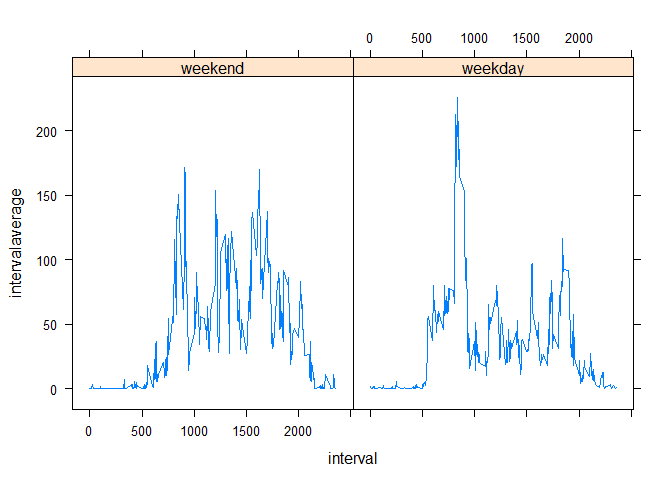
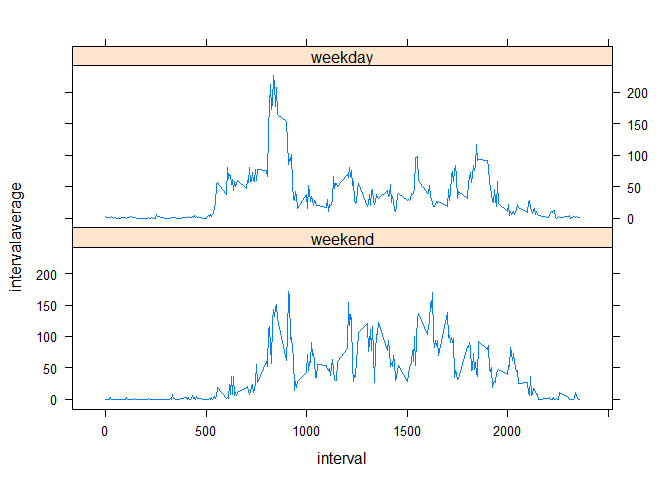
updating with minor edits

diff --git a/PA1_template.html b/PA1_template.html
@@ -124,10 +124,10 @@ $(document).ready(function () {
 
 <div id="loading-and-preprocessing-the-data" class="section level2">
 <h2>Loading and preprocessing the data</h2>
-<pre class="r"><code>#Read in the data
-activitydata&lt;-read.csv(projectfile,colClasses = c(&quot;integer&quot;,&quot;character&quot;,&quot;integer&quot;))
+<p>Read in and clean the data</p>
+<pre class="r"><code>activitydata&lt;-read.csv(projectfile,colClasses = c(&quot;integer&quot;,&quot;character&quot;,&quot;integer&quot;))
 
-#Clean the data
+
 activitydata$date&lt;-as.Date(activitydata$date)
 activitydata&lt;-mutate(activitydata,weekday=wday(date))
 activitydata&lt;-arrange(activitydata,interval)</code></pre>
@@ -138,8 +138,12 @@ activitydata&lt;-arrange(activitydata,interval)</code></pre>
 hist(daysums)</code></pre>
[1 lines of base64/hex data omitted]
 <pre class="r"><code>stepaverage&lt;-mean(daysums,na.rm = T)
+stepmedian&lt;-median(daysums,na.rm = T)
 print(stepaverage)</code></pre>
 <pre><code>## [1] 37.3826</code></pre>
+<pre class="r"><code>print(stepmedian)</code></pre>
+<pre><code>## [1] 37.37847</code></pre>
+<p>Mean of steps taken each day is 37.3825996, and median is 37.3784722.</p>
 </div>
 <div id="what-is-the-average-daily-activity-pattern" class="section level2">
 <h2>What is the average daily activity pattern?</h2>
@@ -155,8 +159,8 @@ print(maxinterval)</code></pre>
 </div>
 <div id="imputing-missing-values" class="section level2">
 <h2>Imputing missing values</h2>
-<pre class="r"><code>#Using the &quot;mice&quot; impute function from the &quot;mice package&quot;
-imputed_Data &lt;- mice(groupedactivitydata, m=1, maxit = 10, method = 'pmm', seed = 500)
+<p>Using the “mice” impute function from the “mice package</p>
+<pre class="r"><code>imputed_Data &lt;- mice(groupedactivitydata, m=1, maxit = 10, method = 'pmm', seed = 500)
 completeData &lt;- complete(imputed_Data)</code></pre>
 <pre class="r"><code>imputeddaysums&lt;-tapply(completeData$steps,completeData$date,mean)
 hist(imputeddaysums)</code></pre>
@@ -164,15 +168,15 @@ hist(imputeddaysums)</code></pre>
 <pre class="r"><code>print(summary(imputeddaysums))</code></pre>
 <pre><code>##    Min. 1st Qu.  Median    Mean 3rd Qu.    Max. 
 ##  0.1424 30.6285 36.7049 36.9001 44.7326 73.5903</code></pre>
-<p>Comparing to the previous histogram mean, we see that imputing the NAs does not make a significant difference.</p>
+<p>Comparing to the previous histogram, median, and mean, we see that imputing the NAs does not make a significant difference.</p>
 </div>
 <div id="are-there-differences-in-activity-patterns-between-weekdays-and-weekends" class="section level2">
 <h2>Are there differences in activity patterns between weekdays and weekends?</h2>
 <pre class="r"><code>completeData&lt;-mutate(completeData,weekdaytype=factor(completeData$weekday,                                                    levels=1:7,labels=c(&quot;weekend&quot;,&quot;weekday&quot;,&quot;weekday&quot;,&quot;weekday&quot;                                               ,&quot;weekday&quot;,&quot;weekday&quot;,&quot;weekend&quot;)))
 completeData&lt;-group_by(completeData,weekdaytype,interval)
 completeData&lt;-mutate(completeData,intervalaverage=mean(steps,na.rm = T))
-xyplot(intervalaverage~interval|weekdaytype,completeData,type=&quot;l&quot;)</code></pre>
[1 lines of base64/hex data omitted]
+xyplot(intervalaverage~interval|weekdaytype,completeData,type=&quot;l&quot;,layout=c(1,2))</code></pre>
[1 lines of base64/hex data omitted]
 <p>As we can see, weekdays have a strong spike in activity around 0830, whereas on weekends the activity is more evenly distributed across the waking hours.</p>
 </div>
 

diff --git a/PA1_template.md b/PA1_template.md
@@ -8,12 +8,13 @@ output:
 
 
 ## Loading and preprocessing the data
+  
+Read in and clean the data
 
 ```r
-#Read in the data
 activitydata<-read.csv(projectfile,colClasses = c("integer","character","integer"))
 
-#Clean the data
+
 activitydata$date<-as.Date(activitydata$date)
 activitydata<-mutate(activitydata,weekday=wday(date))
 activitydata<-arrange(activitydata,interval)
@@ -29,12 +30,22 @@ hist(daysums)
 
 ```r
 stepaverage<-mean(daysums,na.rm = T)
+stepmedian<-median(daysums,na.rm = T)
 print(stepaverage)
 ```
 
 ```
 ## [1] 37.3826
 ```
+
+```r
+print(stepmedian)
+```
+
+```
+## [1] 37.37847
+```
+Mean of steps taken each day is 37.3825996, and median is 37.3784722.  
 
 ## What is the average daily activity pattern?
 
@@ -58,9 +69,11 @@ print(maxinterval)
 ```
 
 ## Imputing missing values
+  
+  
+Using the "mice" impute function from the "mice package
 
 ```r
-#Using the "mice" impute function from the "mice package"
 imputed_Data <- mice(groupedactivitydata, m=1, maxit = 10, method = 'pmm', seed = 500)
 completeData <- complete(imputed_Data)
 ```
@@ -80,7 +93,7 @@ print(summary(imputeddaysums))
 ##    Min. 1st Qu.  Median    Mean 3rd Qu.    Max. 
 ##  0.1424 30.6285 36.7049 36.9001 44.7326 73.5903
 ```
-Comparing to the previous histogram mean, we see that imputing the NAs does not make a significant difference.  
+Comparing to the previous histogram, median, and mean, we see that imputing the NAs does not make a significant difference.  
 
 ## Are there differences in activity patterns between weekdays and weekends?
 
@@ -88,7 +101,7 @@ Comparing to the previous histogram mean, we see that imputing the NAs does not 
 completeData<-mutate(completeData,weekdaytype=factor(completeData$weekday,                                                    levels=1:7,labels=c("weekend","weekday","weekday","weekday"                                               ,"weekday","weekday","weekend")))
 completeData<-group_by(completeData,weekdaytype,interval)
 completeData<-mutate(completeData,intervalaverage=mean(steps,na.rm = T))
-xyplot(intervalaverage~interval|weekdaytype,completeData,type="l")
+xyplot(intervalaverage~interval|weekdaytype,completeData,type="l",layout=c(1,2))
 ```
 
 ![](PA1_template_files/figure-html/unnamed-chunk-6-1.png)<!-- -->
